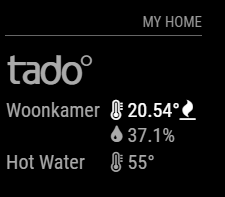
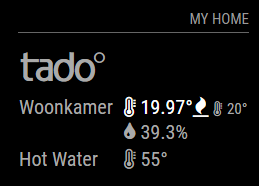
Added target temperature information

diff --git a/MMM-Tado.js b/MMM-Tado.js
@@ -117,6 +117,7 @@ Module.register("MMM-Tado",{
                     var secondTableDateWrapper = document.createElement("td");
                     secondTableDateWrapper.className = "tado-table-data";
 
+                    //current temperature
                     var temperatureWrapper = document.createElement("span");
                     temperatureWrapper.className = "bright";
                     var temperatureIconWrapper = document.createElement("i");
@@ -131,6 +132,16 @@ Module.register("MMM-Tado",{
                         temperatureWrapper.appendChild(heatingWrapper);
                     }
                     secondTableDateWrapper.appendChild(temperatureWrapper);
+
+                    //target temperature
+                    var temperatureTargetWrapper = document.createElement("span");
+                    temperatureTargetWrapper.className = "xsmall";
+                    var temperatureTargetIconWrapper = document.createElement("i");
+                    temperatureTargetIconWrapper.className = "fa fa-thermometer-full";
+                    temperatureTargetWrapper.appendChild(temperatureTargetIconWrapper);
+                    var temperatureTargetTextWrapper = document.createTextNode(zone.state.setting.temperature.celsius + "°");
+                    temperatureTargetWrapper.appendChild(temperatureTargetTextWrapper);
+                    secondTableDateWrapper.appendChild(temperatureTargetWrapper);
 
                     var breakLine = document.createElement("br");
                     secondTableDateWrapper.appendChild(breakLine);

diff --git a/README.md b/README.md
@@ -4,7 +4,8 @@ A MagicMirror Module for your Tado Smart Thermostat.
 ### The module displays the following information:
 
 * A symbol to show if the heater is currently active.
-* The current temperature.
+* The current temperature
+* The target temperature
 * The humidity
 * The hot water temperature.
 
